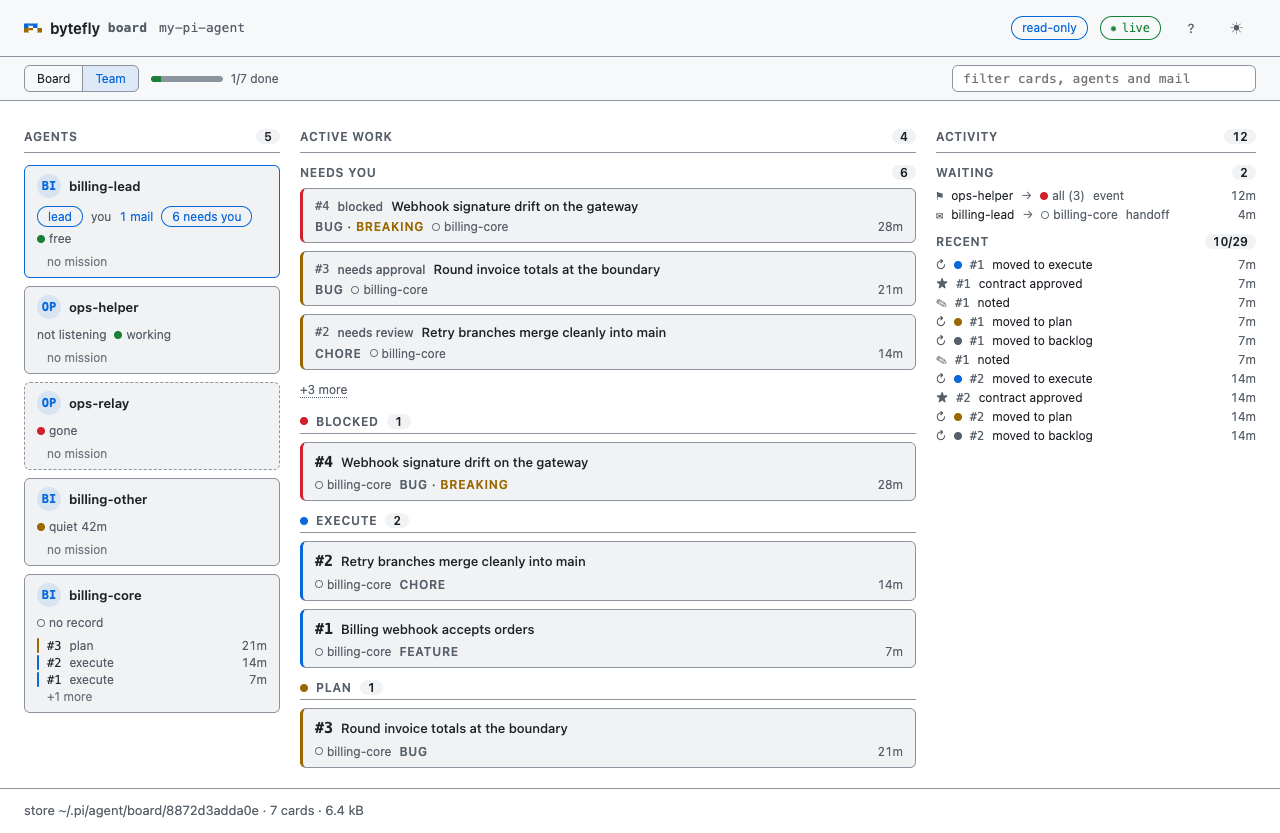
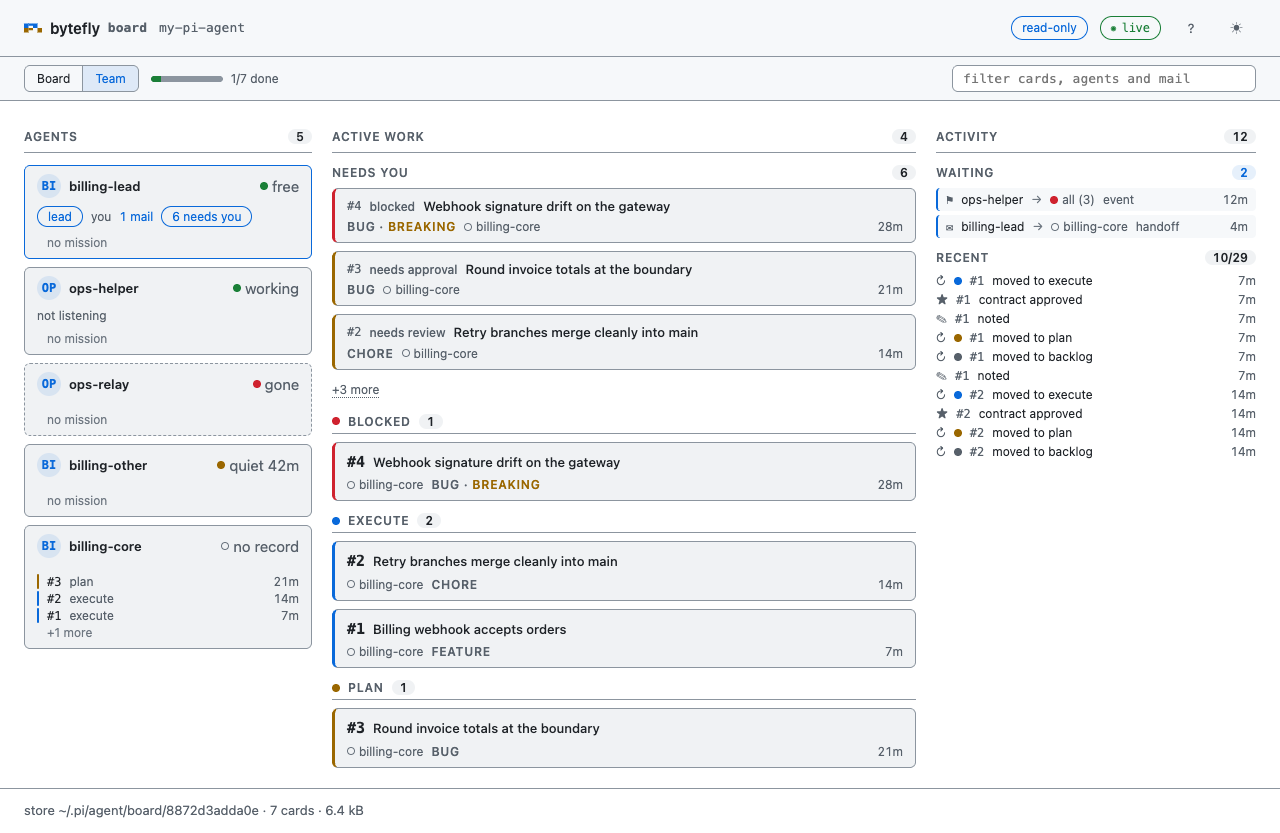
feat(board): give the agent card room and the mail queue a shape
The AGENTS column takes 18rem, its state pill moves to the card's right edge on
the name's line so the chips stop wrapping to a second row, and unread mail is
drawn as a block — a surface fill, a 2px accent edge, an accent count — while the
Recent rail stays flat. The pane scrolls with the page; nothing is sticky.

diff --git a/extensions/board/view/styles.ts b/extensions/board/view/styles.ts
@@ -213,7 +213,7 @@ ${REASON_TONE_CSS}
    here on purpose: a column of agents beside a short middle column is one page, and three
    scrollbars inside a dashboard is the thing this tab exists not to be. */
 .board-team{min-width:0}
-.board-team__grid{display:grid;grid-template-columns:minmax(0,16rem) minmax(0,1fr) minmax(0,20rem);gap:var(--space-5);align-items:start;min-width:0}
+.board-team__grid{display:grid;grid-template-columns:minmax(0,18rem) minmax(0,1fr) minmax(0,20rem);gap:var(--space-5);align-items:start;min-width:0}
 .board-team__column{display:flex;flex-direction:column;gap:var(--space-3);min-width:0}
 /* Sticky, because the agents list is the one that grows: the word a reader is scanning for
    must be over the rows wherever the page has been scrolled to. Offset by a hair so the
@@ -231,6 +231,10 @@ ${REASON_TONE_CSS}
 /* A dead session is drawn, not coloured: the dashed edge says "nobody is behind this". */
 .board-team__agent[data-state="gone"]{border-style:dashed}
 .board-team__agent-head{display:flex;align-items:center;gap:var(--space-2);min-width:0}
+/* The state sits at the card's right edge, on the name's own line, where the eye compares one
+   card with the next: a state that shares a wrapping row with three chips is read last, in the
+   middle of nowhere. */
+.board-team__agent-head .board-team__state{margin-left:auto;flex:0 0 auto}
 /* Two letters, in the mono face: a monogram is an identifier, and a label long enough to be
    elided still has these two to be recognised by. */
 .board-team__monogram{display:inline-flex;flex:0 0 auto;align-items:center;justify-content:center;min-width:1.5rem;height:1.5rem;padding:0 var(--space-1);border-radius:var(--radius-pill);background:var(--accent-soft);color:var(--accent);font:var(--fw-semibold) var(--fs-xs) var(--font-mono);text-transform:uppercase}
@@ -311,6 +315,12 @@ ${REASON_TONE_CSS}
 /* A row is a queue entry, not a sentence: six short facts on one line, the age pushed to the
    edge where the eye compares them. */
 .board-team__mail-row,.board-team__event{display:flex;flex-wrap:wrap;align-items:center;gap:var(--space-1) var(--space-2);min-width:0;color:var(--muted);font:var(--fs-xs) var(--font-ui)}
+/* Mail nobody has read is the one thing on this page somebody owes an answer to, so it is
+   drawn as a block rather than a line: a fill one step off the page, an accent edge, and the
+   padding that keeps its words off that edge. The pane scrolls with the page — one scroll box
+   is the rule — and the Recent rail below stays flat so the two are not the same shape. */
+.board-team__mail-row{padding:var(--space-1) var(--space-2);background:var(--surface);border-left:2px solid var(--accent);border-radius:var(--radius-sm)}
+.board-team__pane-count[data-tone="accent"]{background:var(--accent-soft);color:var(--accent)}
 .board-team__glyph{flex:0 0 auto;color:var(--muted)}
 .board-team__mail-from{max-width:9ch;overflow:hidden;text-overflow:ellipsis;white-space:nowrap;color:var(--text)}
 .board-team__mail-arrow{color:var(--dim)}
@@ -394,7 +404,7 @@ ${DIALOG_TONE_CSS}
   /* Three columns need a wide window: below this the agents and the moving work share the
      row, and the activity rail drops beneath both. The caption stays sticky — it belongs to
      the page's one scroll box, wherever the column has been placed. */
-  .board-team__grid{grid-template-columns:minmax(0,15rem) minmax(0,1fr)}
+  .board-team__grid{grid-template-columns:minmax(0,18rem) minmax(0,1fr)}
   .board-team__column[data-column="activity"]{grid-column:1 / -1}
 }
 @media (max-width:860px){

diff --git a/extensions/board/view/render.ts b/extensions/board/view/render.ts
@@ -231,10 +231,13 @@ __RUNTIME__
    * saying a number: the pill is count/total when a cap left something out, and the spoken
    * label spells that ratio out rather than reading a slash aloud.
    */
-  function paneHead(text, count, total) {
+  function paneHead(text, count, total, tone) {
     var head = el("h3", N.pane, text);
     var filtered = total !== undefined && total !== count;
-    head.appendChild(el("span", N.paneCount, filtered ? count + "/" + total : String(count)));
+    var pill = el("span", N.paneCount, filtered ? count + "/" + total : String(count));
+    // A count that is asking for something wears the accent; a count that is merely true does not.
+    if (tone !== undefined) pill.setAttribute("data-tone", tone);
+    head.appendChild(pill);
     head.setAttribute("aria-label", text + ", " + (filtered ? count + " of " + total : plural(count, "row")));
     return head;
   }

diff --git a/extensions/board/view/fleet.ts b/extensions/board/view/fleet.ts
@@ -111,6 +111,9 @@ __HISTORY_LINE__
     mark.setAttribute("aria-hidden", "true");
     head.appendChild(mark);
     head.appendChild(el("span", N.agentName, agent.label));
+    // The state is the last fact on the name's line, at the card's edge: chips are labels a
+    // reader scans once, and a state is the one word compared from card to card.
+    head.appendChild(statePill(agent));
     card.appendChild(head);
 
     var chips = el("div", N.agentChips);
@@ -132,7 +135,6 @@ __HISTORY_LINE__
     // The lead's own card says how much of the queue is its work, so the scan that starts
     // top-left lands on the reason to look right.
     if (agent.lead && needs > 0) chips.appendChild(chip(needs + " needs you", "accent"));
-    chips.appendChild(statePill(agent));
     card.appendChild(chips);
 
     var missions = el("ul", N.missions);

diff --git a/extensions/board/view/feed.ts b/extensions/board/view/feed.ts
@@ -172,7 +172,9 @@ const feedTemplate = String.raw`(function () {
         build: function (slot) {
           // A filter shows what it matched against the queue; unfiltered, the pane says how deep
           // the queue is, the way RECENT says how much history it left out.
-          slot.appendChild(paneHead("WAITING", mails.length, filtering ? waiting.length : waiting.length + queue.dropped));
+          slot.appendChild(
+            paneHead("WAITING", mails.length, filtering ? waiting.length : waiting.length + queue.dropped, mails.length > 0 ? "accent" : undefined)
+          );
           if (mails.length === 0) {
             slot.appendChild(el("p", N.teamEmpty, filtering ? "nothing matches \"" + query + "\"" : "no mail is waiting"));
             return;

diff --git a/extensions/board/view/mission.test.ts b/extensions/board/view/mission.test.ts
@@ -239,7 +239,7 @@ describe("the mission control's contracts", () => {
 
 	test("is three columns with one page scroll, and the grid is the only thing it lays out", () => {
 		expect(BOARD_CSS).toContain(
-			".board-team__grid{display:grid;grid-template-columns:minmax(0,16rem) minmax(0,1fr) minmax(0,20rem)",
+			".board-team__grid{display:grid;grid-template-columns:minmax(0,18rem) minmax(0,1fr) minmax(0,20rem)",
 		);
 		expect(BOARD_CSS).not.toContain("board-team__queue,.board-team__roster{max-height");
 		// The kit's class vocabulary is still the only one it wears, and every name it declares is drawn.

diff --git a/CHANGELOG.md b/CHANGELOG.md
@@ -17,7 +17,10 @@ to [Semantic Versioning](https://semver.org/spec/v2.0.0.html).
   mission card are now one box and one title size, the strip is named `NEEDS YOU · N` instead of
   its rows being added to a caption that counted only the swimlanes, and the strip's `+N more` is
   the same underlined control a swimlane folds with rather than a paragraph saying where the
-  board is. The ACTIVE WORK caption is a count alone: the tab strip is the way to the board.
+  board is. The ACTIVE WORK caption is a count alone: the tab strip is the way to the board. The
+AGENTS column is wider, its state sits at the card's edge on the name's line instead of in the
+wrapping chip row, and unread mail is drawn as a block — a fill, an accent edge, an accent count —
+so the queue reads as the one thing somebody owes an answer to.
 
 - `board`: the Team tab is a three-column agent mission control, read-only and drawn from one
   snapshot. **AGENTS** lists a card per session with the board's lead pinned first whatever its
